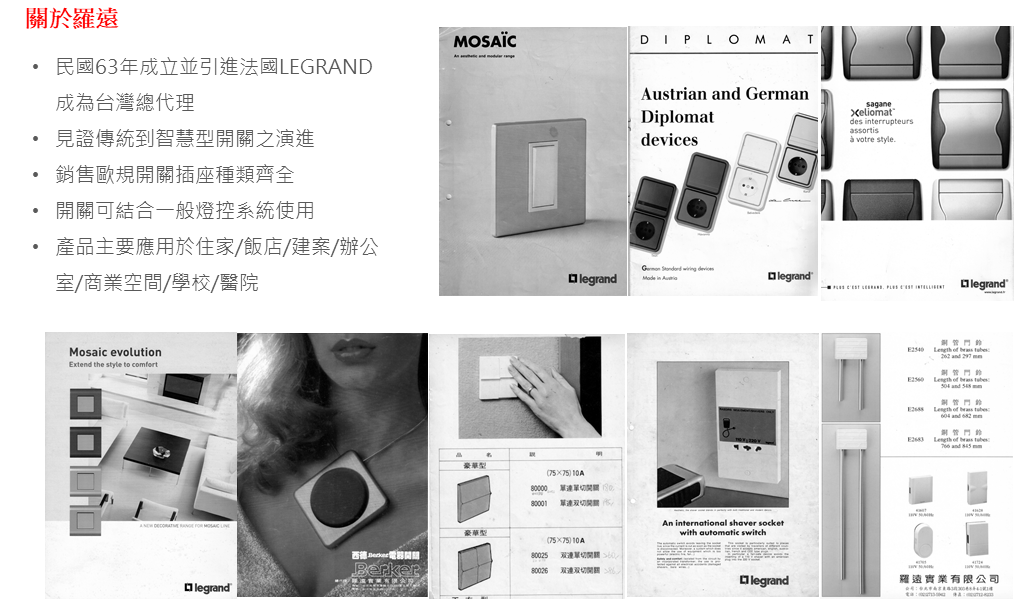
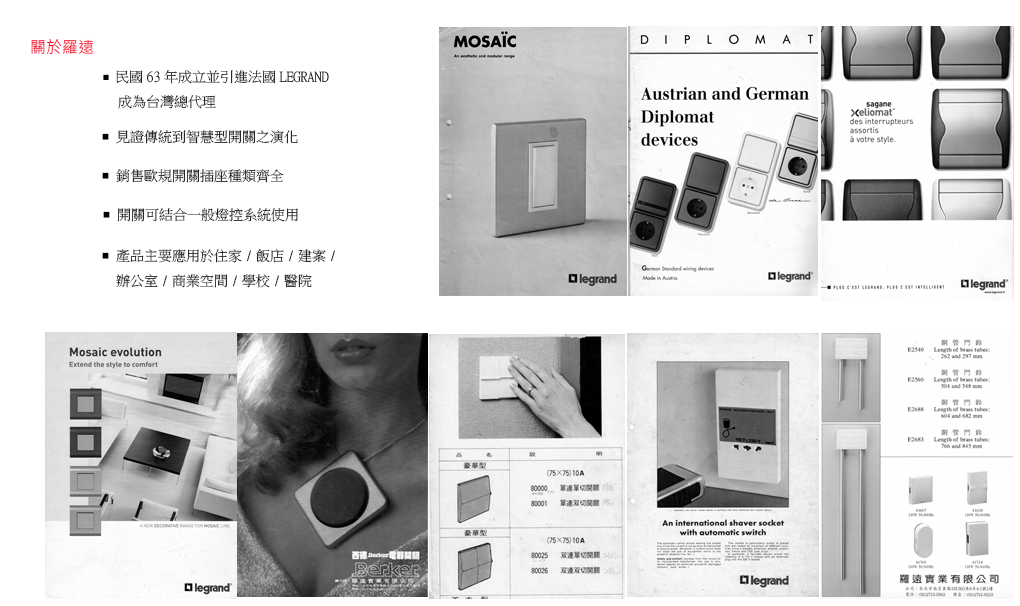
20190415

Changed region(s): [[0.0304, 0.2673, 0.3647, 0.4752], [0.0304, 0.0, 0.3647, 0.1782], [0.0608, 0.2079, 0.3039, 0.2376]]

diff --git a/index_C.html b/index_C.html
@@ -13,7 +13,7 @@
 <body >
     <div class="container-fluid">
 	<div class="row">
-		<div class="col-md-4" align="right">
+		<div class="col-md-4" align="right" >
                 <img src="pic\羅遠logo2.png">
 		</div></div></div>
 <div id="menu_area" class="menu-area">
@@ -24,7 +24,7 @@
                 <span class="navbar-toggler-icon"></span>
                 </button>
                 <div class="collapse navbar-collapse" id="navbarSupportedContent" >
-                    <ul class="navbar-nav mr-auto">&nbsp;&nbsp;&nbsp;&nbsp;&nbsp;&nbsp;&nbsp;&nbsp;&nbsp;&nbsp;&nbsp;&nbsp;&nbsp;&nbsp;&nbsp;&nbsp;&nbsp;&nbsp;&nbsp;&nbsp;&nbsp;&nbsp;&nbsp;&nbsp;&nbsp;&nbsp;&nbsp;&nbsp;&nbsp;&nbsp;&nbsp;
+                    <ul class="navbar-nav mr-auto">&nbsp;&nbsp;&nbsp;&nbsp;&nbsp;&nbsp;&nbsp;&nbsp;&nbsp;&nbsp;&nbsp;&nbsp;&nbsp;&nbsp;&nbsp;&nbsp;&nbsp;&nbsp;&nbsp;&nbsp;&nbsp;&nbsp;&nbsp;&nbsp;&nbsp;&nbsp;&nbsp;&nbsp;&nbsp;&nbsp;&nbsp;&nbsp;&nbsp;&nbsp;&nbsp;&nbsp;&nbsp;
                         <li ><a href="about_C.html">關於羅遠</a></li>
                         <li class="dropdown">
                             <a class="dropdown-toggle" href="#" id="navbarDropdown" role="button" data-toggle="dropdown" aria-haspopup="true" aria-expanded="false">產品系列</a>
@@ -86,7 +86,8 @@
    <div>
    <p style="text-align: center">
     <img src="pic\首頁照片.gif" ></p>
-  </div> 
+   <p class="pageEnd">test</p>
+    </DIV>
 
     <script src="js/jquery.min.js"></script>
     <script src="js/bootstrap.min.js"></script>

diff --git a/css/multilevel.css b/css/multilevel.css
@@ -1,6 +1,6 @@
 .menu-area{background: #ebeff1}
 .dropdown-menu{padding:0;margin:0;border:0 solid transition!important;border:0 solid rgba(0,0,0,.15);border-radius:0;-webkit-box-shadow:none!important;box-shadow:none!important}
-.mainmenu a, .navbar-default .navbar-nav > li > a, .mainmenu ul li a , .navbar-expand-lg .navbar-nav .nav-link{color:black;font-size:16px;text-transform:capitalize;padding:11px 15px;font-family:'Roboto',sans-serif;display: block !important;}
+.mainmenu a, .navbar-default .navbar-nav > li > a, .mainmenu ul li a , .navbar-expand-lg .navbar-nav .nav-link{color:black;font-size:14px;text-transform:capitalize;padding:4px 15px;font-family:'Aril',sans-serif;display: block !important;}
 .mainmenu .active a,.mainmenu .active a:focus,.mainmenu .active a:hover,.mainmenu li a:hover,.mainmenu li a:focus ,.navbar-default .navbar-nav>.show>a, .navbar-default .navbar-nav>.show>a:focus, .navbar-default .navbar-nav>.show>a:hover{color: black;background: #4CAF50;outline: 0;}
 /*==========Sub Menu=v==========*/
 .mainmenu .collapse ul > li:hover > a{background: #ebeff1;}

diff --git a/about_C.html b/about_C.html
@@ -24,7 +24,7 @@
                 <span class="navbar-toggler-icon"></span>
                 </button>
                 <div class="collapse navbar-collapse" id="navbarSupportedContent" >
-                    <ul class="navbar-nav mr-auto">&nbsp;&nbsp;&nbsp;&nbsp;&nbsp;&nbsp;&nbsp;&nbsp;&nbsp;&nbsp;&nbsp;&nbsp;&nbsp;&nbsp;&nbsp;&nbsp;&nbsp;&nbsp;&nbsp;&nbsp;&nbsp;&nbsp;&nbsp;&nbsp;&nbsp;&nbsp;
+                    <ul class="navbar-nav mr-auto">&nbsp;&nbsp;&nbsp;&nbsp;&nbsp;&nbsp;&nbsp;&nbsp;&nbsp;&nbsp;&nbsp;&nbsp;&nbsp;&nbsp;&nbsp;&nbsp;&nbsp;&nbsp;&nbsp;&nbsp;&nbsp;&nbsp;&nbsp;&nbsp;&nbsp;&nbsp;&nbsp;&nbsp;&nbsp;&nbsp;&nbsp;&nbsp;&nbsp;&nbsp;&nbsp;&nbsp;&nbsp;
                         <li ><a href="about_C.html">關於羅遠</a></li>
                         <li class="dropdown">
                             <a class="dropdown-toggle" href="#" id="navbarDropdown" role="button" data-toggle="dropdown" aria-haspopup="true" aria-expanded="false">產品系列</a>
